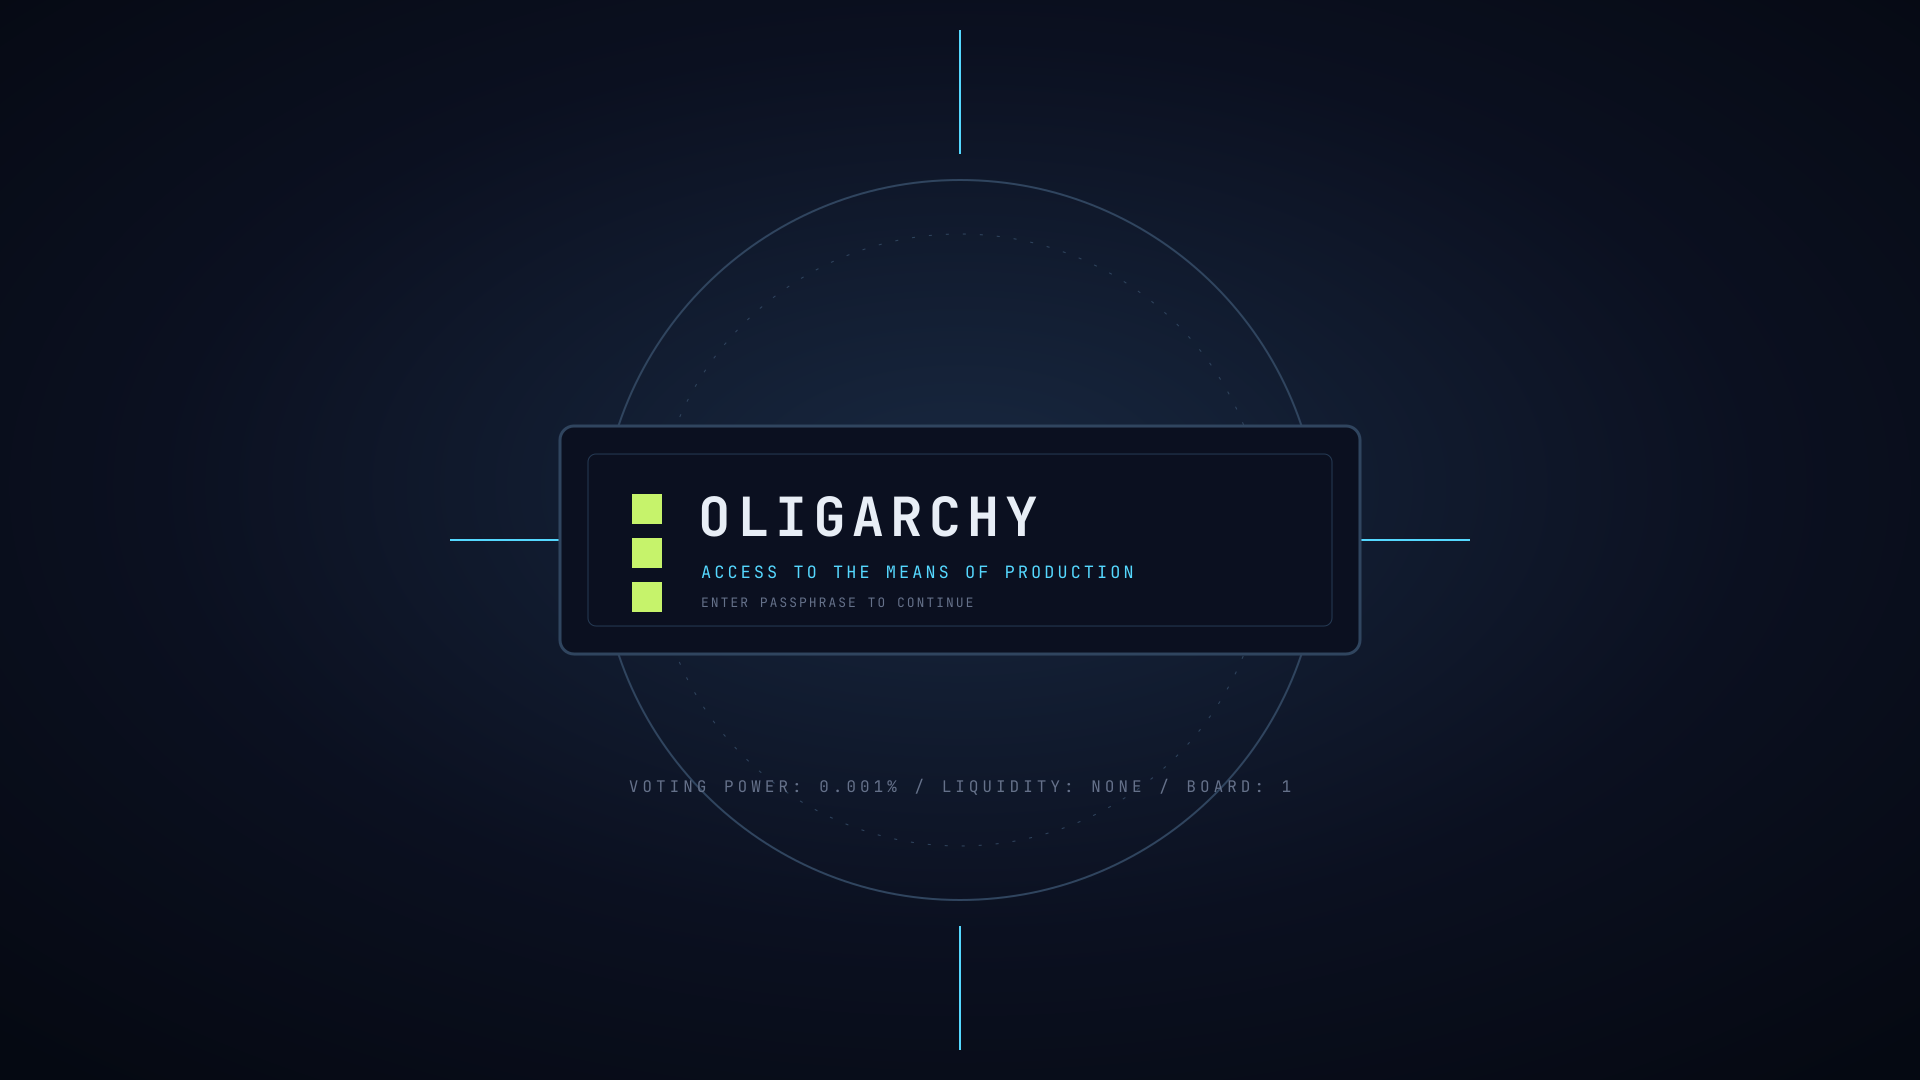
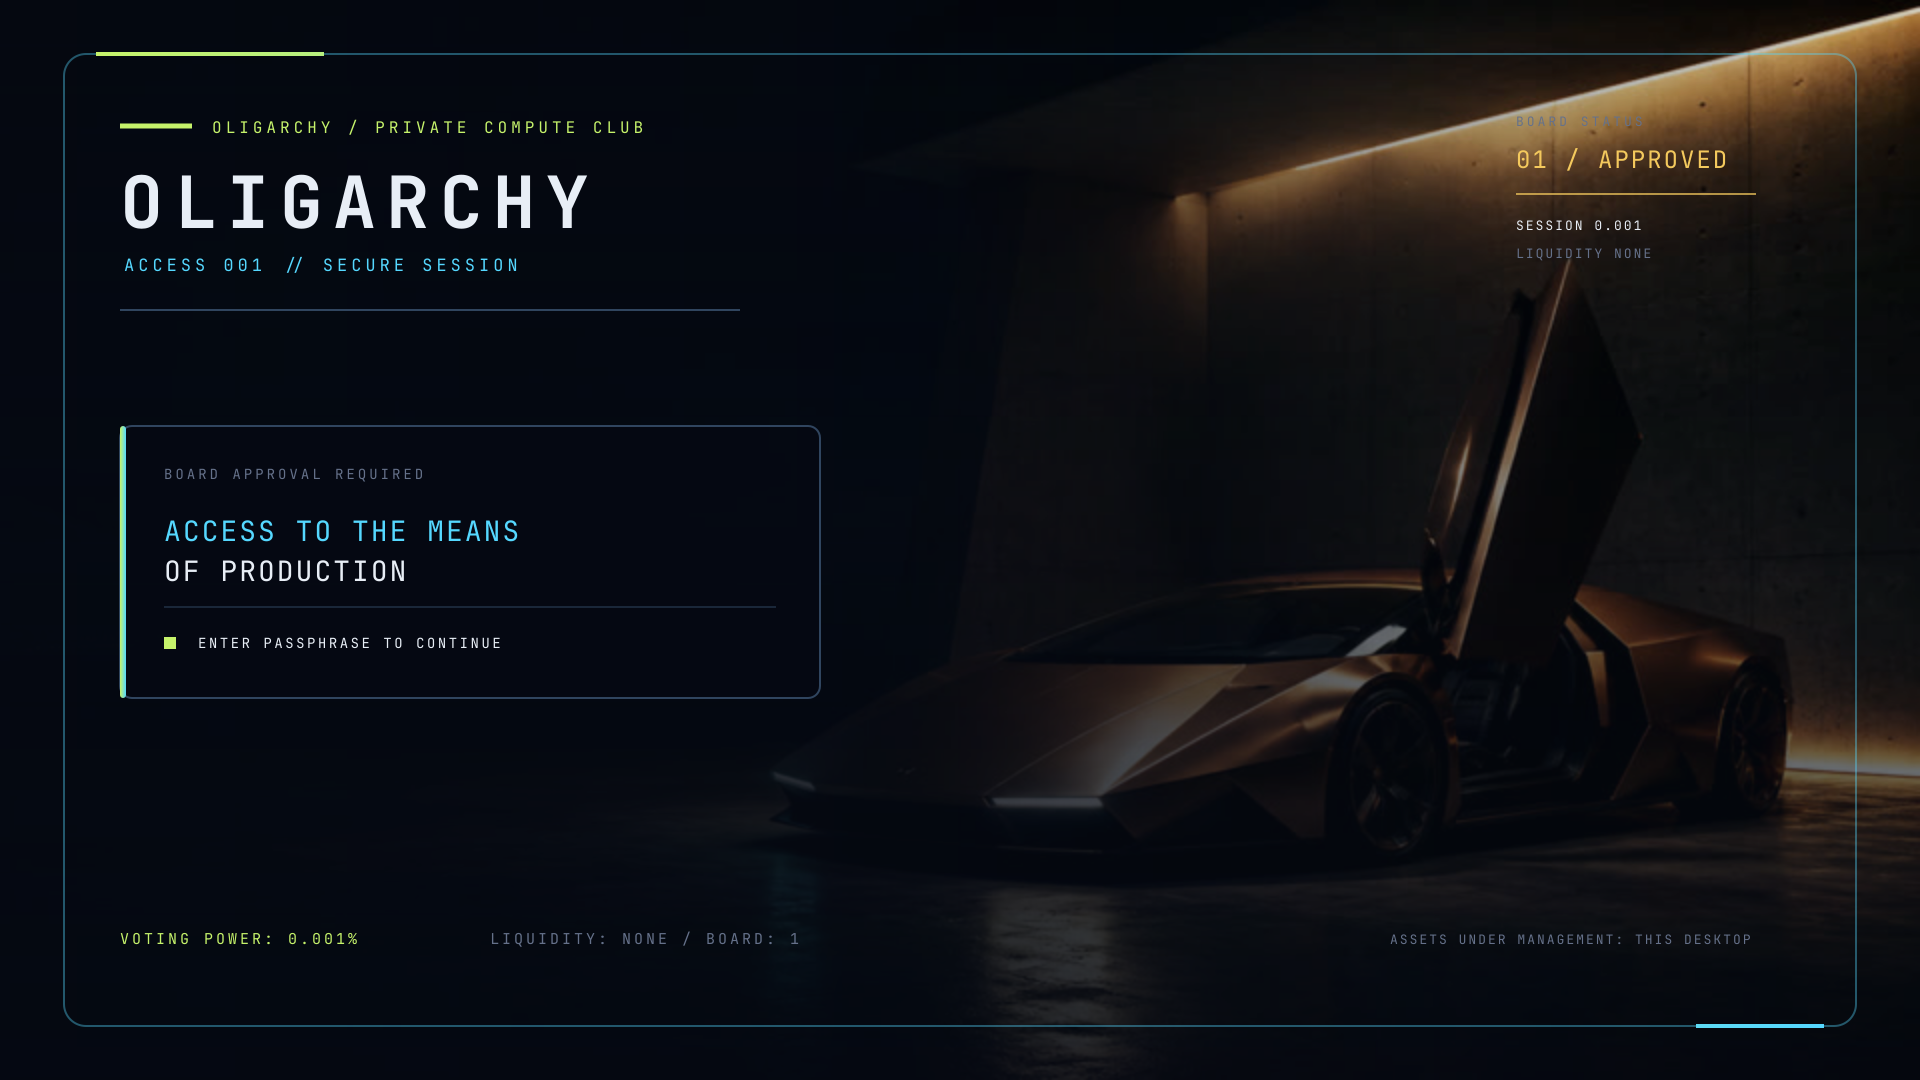
refine: redesign oligarchy unlock screen

diff --git a/README.md b/README.md
@@ -36,7 +36,7 @@ This repository includes the shared palette plus explicit styling for Hyprland b
 
 ## Development
 
-The source assets for the unlock art and preview composition live in `art/source/`. The four wallpapers are final raster assets in `backgrounds/`; rebuild the generated assets with:
+The source assets for the unlock art and preview composition live in `art/source/`. The unlock preview uses a lightweight local crop of the Diablo wallpaper so SVG rendering stays portable. The four wallpapers are final raster assets in `backgrounds/`; rebuild the generated assets with:
 
 ```bash
 ./scripts/render-assets.sh
